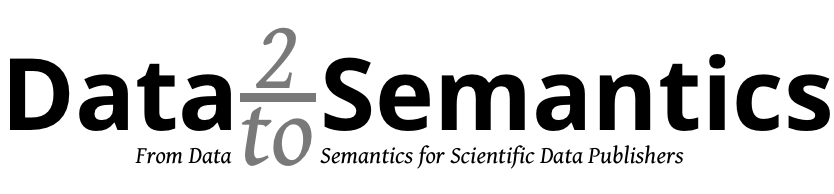
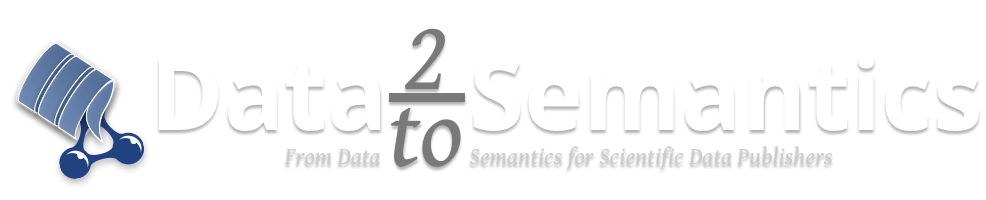
Niceeer

Changed region(s): [[0.0, 0.1237, 0.9976, 0.9278], [0.3118, 0.1237, 0.3741, 0.2784]]

diff --git a/content/media/css/style.css b/content/media/css/style.css
@@ -12,6 +12,13 @@
 body {
   position: relative;
   padding-top: 90px;
+  font-family: "Open Sans", "Helvetica Neue", "Helvetica", sans-serif;
+  line-height: 1.5;
+}
+
+p {
+	font-family: "Open Sans", "Helvetica Neue", "Helvetica", sans-serif;
+  line-height: 1.5;
 }
 
 h1, h2,h3,h4,h5,h6 {
@@ -20,15 +27,10 @@ h1, h2,h3,h4,h5,h6 {
 }
 
 h1 {
-/*    font-family: "Open Sans", "Helvetica Neue", "Helvetica", sans-serif;*/
     font-weight: bold;
 		color: #343434;
 }
 
-p {
-    font-family: "Open Sans", "Helvetica Neue", "Helvetica", sans-serif;
-    line-height: 1.5;
-}
 
 
 img.icon {
@@ -41,21 +43,13 @@ img.linkicon {
 	width: 100%;
 }
 
-.rotated {
-	writing-mode: tb-rl;
-	-webkit-transform: rotate(270deg);	
-	-moz-transform: rotate(270deg);
-	-ms-transform: rotate(270deg);
-	-o-transform: rotate(270deg);
-	transform: rotate(270deg);
+
+.sidehead {
+	border-right: 1px solid grey;
 }
 
-h1.rotated {
-	font-size: 74px;
-	margin-top: 120px;
-}
-p.subrotated {
-        margin-top: 20px;
+.sidehead h2 {
+	font-weight: bold;
 }
 
 /* Move logo left and content up */
@@ -74,10 +68,12 @@ p.subrotated {
 	font-family: "Helvetica Neue", Helvetica, Arial, sans-serif;
 }
 
-.landing {
-	background-image: url(/media/img/hero-back.png);
-	padding-top: 0px;
-	padding-bottom: 0px;
+.header {
+	background: url(/media/img/header.png) top left repeat #465158; 
+	border-bottom: 1px solid #333; 
+	padding: 0 0 0 30px;
+	margin: -60px 0px 200px 0; 
+	color: #fff;
 }
 
 /*.landing > h1 {

diff --git a/content/index.html b/content/index.html
@@ -12,7 +12,7 @@ learning_order: 2
 {% extends "landing.j2" %}
 
 {% block main %}
-## About Data2Semantics
+## Data2Semantics
 
 Data2Semantics studies and develops essential semantic infrastructure for bringing [e-Science](http://en.wikipedia.org/wiki/E-Science) to the next level.
 	
@@ -22,7 +22,7 @@ A core task for scientific publishers is to speed up [scientific progress](http:
 
 Data2Semantics is a collaboration between the [VU University Amsterdam](http://www.vu.nl/), the [University of Amsterdam](http://www.uva.nl), [Data Archiving and Networked Services (DANS)](http://www.dans.knaw.nl/) of the [KNAW](http://en.wikipedia.org/wiki/Royal_Netherlands_Academy_of_Arts_and_Sciences), [Elsevier Publishing](http://www.elsevier.com) and [Philips](http://www.philips.com), and is funded under the [COMMIT](http://www.commit-nl.nl) programme of the [NL Agency of the Dutch Ministry of Economic Affairs, Agriculture and Innovation](http://www.agentschapnl.nl/en).
 
-<a class="btn btn-large btn-primary" href="/about.html"><i class="icon-share-alt icon-white"></i> More Information</a>
+<!-- <a class="btn btn-large btn-primary" href="/about.html"><i class="icon-share-alt icon-white"></i> More Information</a> -->
 
 {% endblock main %}
 

diff --git a/content/products.html b/content/products.html
@@ -4,7 +4,7 @@ subtitle: Stuff we're working on
 description: Test description
 title_ending: "| Products"
 type: page
-icon: soups.jpg
+icon: chain.png
 ---
 
 {% extends "landing.j2" %}
